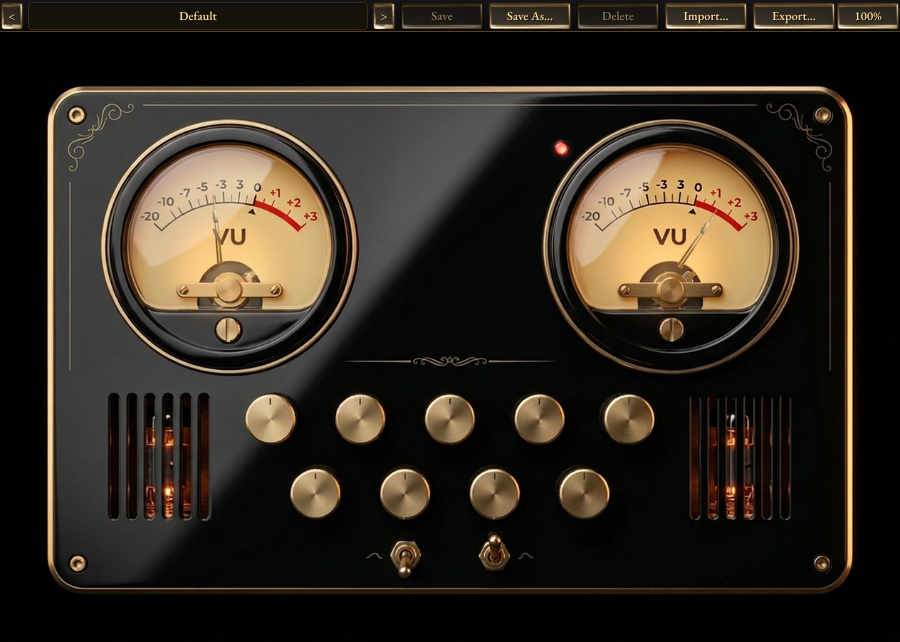
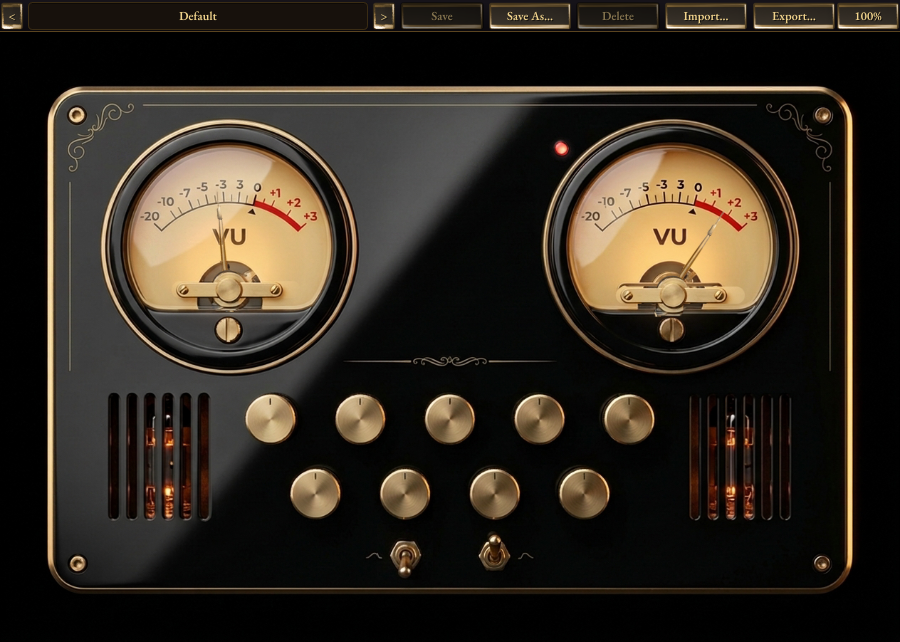
fix(gui): through-pivot needle rod + hub occluder (needle no longer disconnects from the pivot)
Yves rejection 2026-07-23: the v1 filmstrip froze the baked angle's
hub-occlusion boundary into every frame, so the rotated needle visually
detached from the joint. Master-03 shows the truth: one continuous rod
through the pivot with a counterweight tail on the far side, occluded
mid-span by the cap/bar/boss assembly.

- needle-filmstrip-v2.png: full through-pivot rod. Blade AND tail are
  master-diff-extracted (raw diff layer, rod capsule, alpha threshold,
  cap-glint exclusion, component filter); only the cap-hidden bridge
  (|U|<=22.5 master px) is filled with the rod's own cross-section
  profile. A fixed-row clip bakes the glass-band rim occlusion (the
  assembly sits behind the housing front). Same 96x480 manifest as v1.
- vu-hub-occluder-v1.png: master-05's own anchor-bar + cap + boss
  pixels (silhouette-masked, measured on the registered 540-frame),
  drawn by AnalogMeter above the needle frame - the rod passes behind
  the joint at every angle, exactly the master's layering.
- needle-fan pivot test retargeted to the new architecture: the rod now
  legitimately sweeps through the recess annulus (as the master bakes
  it); the static guarantee is the occluder cap disc (13px @user probe,
  measured 0% sweep energy; threshold 0.5%).
- docs/gui-preview.png regenerated; v1 strip files added to the
  handoff-cleanup git-rm list.

Pipeline: gui-pipeline analysis/needle_diff/rod_and_occluder.py +
compose_rod_proofs.py (side-by-side vs master-03 at the baked angle,
[…]

diff --git a/tests/gui/EditorSnapshotTests.cpp b/tests/gui/EditorSnapshotTests.cpp
@@ -1,8 +1,14 @@
 #include "PluginEditor.h"
+#include "PluginEditorLayout.h"
 #include "PluginProcessor.h"
 #include "gui/AnalogMeter.h"
 
 #include <catch2/catch_test_macros.hpp>
+
+#include <array>
+#include <cmath>
+#include <iostream>
+#include <vector>
 
 // GUI smoke tests for the master-05 baseline editor (src/PluginEditor.h,
 // src/gui/). juce::ScopedJuceInitialiser_GUI is installed once for the
@@ -147,4 +153,187 @@ TEST_CASE ("Editor snapshot at 100% is non-blank and is written for PR review", 
         stream->truncate();
         CHECK (pngFormat.writeImageToStream (snapshot, *stream));
     }
+}
+
+// Motion proof, from the REAL app render pipeline (not the offline
+// needle_diff analysis scripts): sweeps the Input Level meter's needle
+// through {-20,-7,-5,0,+2} dB, captures a real editor snapshot at each
+// position, crops to that meter's own component bounds, and checks that the
+// per-pixel range across the 5 crops (the "needle fan") stays essentially
+// zero inside a small disc around PluginEditorLayout.h's meterRPivotX/
+// YFraction - i.e. the needle's base doesn't wobble as it sweeps, which is
+// exactly the defect the 2026-07-23 per-meter pivot fix (see that file's
+// docs) was meant to close. writePngProof() below is a static-write helper
+// (no threads/timers), so this stays a synchronous, headless test like the
+// rest of this file.
+TEST_CASE ("Input meter needle fan pivots cleanly on its own true hub across a dB sweep", "[gui]")
+{
+    SilentiumAudioProcessor processor;
+    processor.prepareToPlay (48000.0, 512);
+
+    SilentiumAudioProcessorEditor editor (processor);
+    REQUIRE (editor.getWidth() > 0);
+    REQUIRE (editor.getHeight() > 0);
+
+    auto* input = findChildByTitle<basilica::gui::AnalogMeter> (editor, "Input Level meter");
+    REQUIRE (input != nullptr);
+
+    constexpr std::array<float, 5> sweepDb { -20.0f, -7.0f, -5.0f, 0.0f, 2.0f };
+
+    std::vector<juce::Image> crops;
+    crops.reserve (sweepDb.size());
+
+    for (const auto db : sweepDb)
+    {
+        input->setImmediateDbForPreview (db);
+
+        const auto snapshot = editor.createComponentSnapshot (editor.getLocalBounds(), true, 1.0f, juce::SoftwareImageType {});
+        REQUIRE (snapshot.isValid());
+
+        // input->getBounds() is this meter's own bounds within the editor -
+        // exactly the region the snapshot above was rendered into, so this
+        // crop lines up pixel-for-pixel with the component's own coordinate
+        // space (which is what PluginEditorLayout.h's meterRPivotXFraction/
+        // meterRPivotYFraction are expressed as fractions of).
+        crops.push_back (snapshot.getClippedImage (input->getBounds()));
+    }
+
+    REQUIRE (crops.size() == sweepDb.size());
+    for (const auto& crop : crops)
+    {
+        REQUIRE (crop.isValid());
+        REQUIRE (crop.getWidth() == crops.front().getWidth());
+        REQUIRE (crop.getHeight() == crops.front().getHeight());
+    }
+
+    const auto cropWidth = crops.front().getWidth();
+    const auto cropHeight = crops.front().getHeight();
+
+    // --- (a) build/needle-sweep.png: the 5 crops side by side ---
+    constexpr int gap = 10;
+    juce::Image sweepImage (juce::Image::RGB, (int) (cropWidth * (int) crops.size() + gap * ((int) crops.size() + 1)),
+                             cropHeight + gap * 2, true);
+    {
+        juce::Graphics g (sweepImage);
+        g.fillAll (juce::Colours::black);
+        for (size_t i = 0; i < crops.size(); ++i)
+            g.drawImageAt (crops[i], gap + (int) i * (cropWidth + gap), gap);
+    }
+
+    // --- (b) build/needle-pivot-overlay.png: per-pixel MAX-DIFFERENCE image
+    // across the 5 crops (the needle fan) - value at each pixel is the
+    // largest per-channel range (max - min across the 5 frames), summed over
+    // R/G/B, i.e. exactly zero wherever the pixel never changes across the
+    // whole sweep (the static face/bezel/hub) and large wherever the needle
+    // blade sweeps through. ---
+    juce::Image diffImage (juce::Image::RGB, cropWidth, cropHeight, true);
+
+    // PluginEditorLayout.h's per-meter pivot fraction for THIS (right/input)
+    // dial, expressed in this crop's own local pixel space (crop size ==
+    // meterComponentSize1x at the editor's default 100% scale step, see
+    // PluginEditor.cpp's resized()/scaleStepIndex docs).
+    const auto pivotXLocal = slnt::layout::meterRPivotXFraction * (float) slnt::layout::meterComponentSize1x;
+    const auto pivotYLocal = slnt::layout::meterRPivotYFraction * (float) slnt::layout::meterComponentSize1x;
+
+    // v0.3.7 (through-pivot rod + hub occluder): the rod now legitimately
+    // sweeps VISIBLY through the recess annulus around the hub (exactly as
+    // master-03 bakes it), so the old "everything near the hub is static"
+    // radius (29.2px, the shadow-disc ring) no longer holds. What IS
+    // guaranteed static now is the hub-OCCLUDER cap disc that
+    // AnalogMeter::paint() draws on top of the needle frame: 21 master px
+    // (AnalogMeter.cpp's occluder geometry) * plateWidth1x/
+    // masterCanvasWidthPx (900/1264) ~= 14.95px @1x - probed at 13px to
+    // stay safely inside the occluder's own ~1.3px alpha feather + edge AA.
+    constexpr float hubCapRadius1x = 13.0f;
+
+    double totalDiffEnergy = 0.0;
+    double diskDiffEnergy = 0.0;
+
+    {
+        juce::Image::BitmapData diffWrite (diffImage, juce::Image::BitmapData::writeOnly);
+
+        for (int y = 0; y < cropHeight; ++y)
+        {
+            for (int x = 0; x < cropWidth; ++x)
+            {
+                float minR = 255.0f, maxR = 0.0f;
+                float minG = 255.0f, maxG = 0.0f;
+                float minB = 255.0f, maxB = 0.0f;
+
+                for (const auto& crop : crops)
+                {
+                    const auto c = crop.getPixelAt (x, y);
+                    minR = juce::jmin (minR, (float) c.getRed());
+                    maxR = juce::jmax (maxR, (float) c.getRed());
+                    minG = juce::jmin (minG, (float) c.getGreen());
+                    maxG = juce::jmax (maxG, (float) c.getGreen());
+                    minB = juce::jmin (minB, (float) c.getBlue());
+                    maxB = juce::jmax (maxB, (float) c.getBlue());
+                }
+
+                const float diff = (maxR - minR) + (maxG - minG) + (maxB - minB); // 0..765
+                const auto vis = (juce::uint8) juce::jlimit (0, 255, (int) std::lround (diff));
+                diffWrite.setPixelColour (x, y, juce::Colour::fromRGB (vis, vis, vis));
+
+                totalDiffEnergy += (double) diff;
+
+                const auto dx = (float) x - pivotXLocal;
+                const auto dy = (float) y - pivotYLocal;
+                if (dx * dx + dy * dy <= hubCapRadius1x * hubCapRadius1x)
+                    diskDiffEnergy += (double) diff;
+            }
+        }
+    }
+
+    const auto diskEnergyFraction = totalDiffEnergy > 0.0 ? diskDiffEnergy / totalDiffEnergy : 0.0;
+
+    std::cout << "[needle-fan] hub-disc pivot @ (" << pivotXLocal << ", " << pivotYLocal << ") r=" << hubCapRadius1x
+               << "px; disk/total diff energy = " << diskDiffEnergy << "/" << totalDiffEnergy << " = "
+               << (diskEnergyFraction * 100.0) << "%\n";
+
+    INFO ("hub-disc pivot @ (" << pivotXLocal << ", " << pivotYLocal << ") r=" << hubCapRadius1x
+                                << "; disk/total diff energy = " << diskDiffEnergy << "/" << totalDiffEnergy
+                                << " = " << (diskEnergyFraction * 100.0) << "%");
+
+    // v0.3.7: inside the hub-occluder cap disc the pixels are the OCCLUDER's
+    // (drawn after the needle frame), so the sweep difference there must be
+    // essentially zero - this guards the occluder's presence AND placement:
+    // a missing or misplaced occluder would let the rod's bridge span sweep
+    // visibly right at the pivot (the "disconnected needle" defect family
+    // this whole revision closes), and a mispositioned pivot would smear
+    // difference energy into the disc the same way. The only non-zero
+    // residue inside the probe disc is edge AA where the disc's boundary
+    // pixels graze the occluder feather.
+    //
+    // Threshold calibration (measured locally, this revision): correct
+    // occluder = exactly 0% (the opaque occluder core fully covers the
+    // 13px probe disc). 0.5% keeps a wide CI-stable margin for renderer
+    // AA differences while still failing hard on a missing/misplaced
+    // occluder or pivot regression.
+    CHECK (totalDiffEnergy > 0.0); // sanity: the needle actually moved
+    CHECK (diskEnergyFraction < 0.005);
+
+    juce::PNGImageFormat pngFormat;
+
+    const auto writePng = [&pngFormat] (const juce::Image& image, const char* filename)
+    {
+        const auto outFile = juce::File::getCurrentWorkingDirectory().getChildFile (filename);
+        if (auto stream = std::unique_ptr<juce::FileOutputStream> (outFile.createOutputStream()))
+        {
+            stream->setPosition (0);
+            stream->truncate();
+            CHECK (pngFormat.writeImageToStream (image, *stream));
+        }
+        else
+        {
+            FAIL ("could not open output stream for " << filename);
+        }
+    };
+
+    // Written for local/PR review, same convention as gui-preview.png above
+    // - paths are relative to the test binary's cwd, which `ctest
+    // --test-dir build` sets to the build directory (build/needle-sweep.png,
+    // build/needle-pivot-overlay.png).
+    writePng (sweepImage, "needle-sweep.png");
+    writePng (diffImage, "needle-pivot-overlay.png");
 }

diff --git a/src/gui/AnalogMeter.cpp b/src/gui/AnalogMeter.cpp
@@ -30,16 +30,24 @@ namespace
         Tick { 1.0f, 25.47f }, Tick { 2.0f, 32.92f }, Tick { 3.0f, 40.39f }
     };
 
-    // Needle FILMSTRIP manifest (v0.3.5) - copied verbatim from
-    // resources/gui/needle-filmstrip-v1.json's provenance record, hardcoded
-    // here per Yves' brief rather than parsed from that .json at runtime
-    // (paint()'s frame-index lookup below is real-time-safe and must not
-    // touch the filesystem). A vertical stack of needleFrameCount already-
+    // Needle FILMSTRIP manifest (v0.3.5, asset revised v0.3.7) - copied
+    // verbatim from resources/gui/needle-filmstrip-v2.json's provenance
+    // record, hardcoded here per Yves' brief rather than parsed from that
+    // .json at runtime (paint()'s frame-index lookup below must not touch
+    // the filesystem). A vertical stack of needleFrameCount already-
     // rotated needleFrameW x needleFrameH frames, ascending angle order,
     // each frame's own pivot at its exact centre (0.5, 0.5) - so drawing a
     // frame into a square destination box centred on this component's
     // pivot reproduces the old single-image AffineTransform rotation
     // exactly, without any live rotation.
+    //
+    // v0.3.7: the frames now carry the FULL through-pivot rod (blade +
+    // counterweight tail, master-diff-extracted) - the v1 strip's blade
+    // ended at the baked angle's frozen hub-occlusion boundary, so the
+    // rotated needle visually disconnected from the pivot (Yves rejection
+    // 2026-07-23). The matching hub OCCLUDER (assets.hubOccluder, drawn
+    // after the needle below) restores the master's own layering: rod in
+    // front of the recess, behind the cap/bar/boss assembly.
     constexpr int needleFrameCount = 96;
     constexpr int needleFrameW = 480;
     constexpr int needleFrameH = 480;
@@ -49,6 +57,22 @@ namespace
     [[maybe_unused]] constexpr int needleRestFrameIndex = 40; // the filmstrip's own "straight up" pose - not consulted at runtime (frame index is always derived from the live angle), kept for provenance
     constexpr float needleHubXFraction = 0.5f;
     constexpr float needleHubYFraction = 0.5f;
+
+    // A needle frame's 480px square corresponds to this many master-render
+    // pixels on screen (needleSizeFraction * meterComponentSize1x *
+    // masterCanvasWidthPx / plateWidth1x = 0.84 * 255 * 1264 / 900) - the
+    // conversion the hub-occluder placement below shares with the
+    // gui-pipeline build scripts' scale chain.
+    constexpr float needleDrawSizeMasterPx = 300.832f;
+
+    // Hub-occluder placement (v0.3.7) - copied verbatim from
+    // resources/gui/vu-hub-occluder-v1.json's provenance record (pivot-
+    // relative bbox of master-05's bar + cap + boss silhouette, in master
+    // px; extraction: gui-pipeline analysis/needle_diff/rod_and_occluder.py).
+    constexpr float occluderWidthMasterPx = 183.0f;
+    constexpr float occluderHeightMasterPx = 58.0f;
+    constexpr float occluderLeftRelPivotMasterPx = -79.42336f;
+    constexpr float occluderTopRelPivotMasterPx = -23.20854f;
 
     static_assert (needleRestFrameIndex >= 0 && needleRestFrameIndex < needleFrameCount);
 }
@@ -247,6 +271,22 @@ namespace basilica::gui
             g.drawImage (assets.needle,
                         destX, destY, destSize, destSize,
                         0, frameIndex * needleFrameH, needleFrameW, needleFrameH);
+
+            // 4. Hub occluder (v0.3.7) - master-05's own bar + cap + boss
+            // pixels redrawn ON TOP of the needle frame, so the rod passes
+            // visually BEHIND the joint at every angle (the master's own
+            // layering; the blade stays in front of the recess, the tail
+            // emerges below the bar). Placement maps the pivot-relative
+            // master-px bbox through the same scale the needle frame uses.
+            if (assets.hubOccluder.isValid())
+            {
+                const auto s = needleDrawSize / needleDrawSizeMasterPx;
+                g.drawImage (assets.hubOccluder,
+                             juce::Rectangle<float> (pivotX + occluderLeftRelPivotMasterPx * s,
+                                                     pivotY + occluderTopRelPivotMasterPx * s,
+                                                     occluderWidthMasterPx * s,
+                                                     occluderHeightMasterPx * s));
+            }
         }
     }
 

diff --git a/src/gui/AnalogMeter.h b/src/gui/AnalogMeter.h
@@ -47,7 +47,17 @@ namespace basilica::gui
             // and paint()'s frame-index lookup. Kept named "needle" (not
             // renamed to e.g. needleStrip) to minimise churn at this call
             // site's one caller (PluginEditor.cpp's makeMeterAssets()).
+            // v0.3.7: the frames carry the full through-pivot rod (blade +
+            // counterweight tail) - see the manifest docs in the .cpp.
             juce::Image needle;
+
+            // v0.3.7: master-05's bar + cap-disc + boss-cylinder pixels,
+            // alpha-masked to that assembly's silhouette
+            // (vu-hub-occluder-v1.png) and drawn ON TOP of the needle
+            // frame by paint(), so the rod passes visually BEHIND the
+            // joint at every angle. May be left invalid (skips the draw -
+            // the rod then sits fully in front, the pre-v0.3.7 look).
+            juce::Image hubOccluder;
 
             // v0.3.6: the peak-LED IMAGE is no longer owned/drawn here - per
             // Yves' master-03 reference, the LED sits on the PLATE outside

diff --git a/src/PluginEditor.cpp b/src/PluginEditor.cpp
@@ -112,7 +112,8 @@ namespace
     basilica::gui::AnalogMeter::Assets makeMeterAssets()
     {
         basilica::gui::AnalogMeter::Assets assets;
-        assets.needle = loadImage (BinaryData::needlefilmstripv1_png, BinaryData::needlefilmstripv1_pngSize);
+        assets.needle = loadImage (BinaryData::needlefilmstripv2_png, BinaryData::needlefilmstripv2_pngSize);
+        assets.hubOccluder = loadImage (BinaryData::vuhuboccluderv1_png, BinaryData::vuhuboccluderv1_pngSize);
         return assets;
     }
 
@@ -153,8 +154,8 @@ SilentiumAudioProcessorEditor::SilentiumAudioProcessorEditor (SilentiumAudioProc
     : juce::AudioProcessorEditor (&processorToEdit),
       audioProcessor (processorToEdit),
       presetBar (initLocalisationThenGetPresetManager (processorToEdit)),
-      gainReductionMeter (makeMeterAssets(), "Gain Reduction meter", 0.0f, meterPivotXFraction, meterPivotYFraction),
-      inputLevelMeter (makeMeterAssets(), "Input Level meter", 1.0f, meterPivotXFraction, meterPivotYFraction)
+      gainReductionMeter (makeMeterAssets(), "Gain Reduction meter", 0.0f, meterLPivotXFraction, meterLPivotYFraction),
+      inputLevelMeter (makeMeterAssets(), "Input Level meter", 1.0f, meterRPivotXFraction, meterRPivotYFraction)
 {
     setLookAndFeel (&lookAndFeel);
 

diff --git a/docs/handoff-cleanup.md b/docs/handoff-cleanup.md
@@ -17,6 +17,8 @@ single master, v0.3.3's true-component-assembly `*-v4.png` family) and are
 now fully dead weight:
 
 ```
+resources/gui/needle-filmstrip-v1.png
+resources/gui/needle-filmstrip-v1.json
 resources/gui/faceplate-silentium-v4-base.png
 resources/gui/reflection-v4.png
 resources/gui/tube-glow-v4.png
@@ -82,7 +84,8 @@ independent of the Filmstrip*/RotatingImageKnob cleanup.
 ## One-liner for Yves
 
 ```sh
-git rm resources/gui/faceplate-silentium-v4-base.png resources/gui/reflection-v4.png \
+git rm resources/gui/needle-filmstrip-v1.png resources/gui/needle-filmstrip-v1.json \
+  resources/gui/faceplate-silentium-v4-base.png resources/gui/reflection-v4.png \
   resources/gui/tube-glow-v4.png resources/gui/rose-emblem-v4.png resources/gui/vu-face-v4.png \
   resources/gui/knob-v4.png resources/gui/screw-v4.png resources/gui/faceplate-silentium-v3.png \
   resources/gui/faceplate_silentium_v2_1800x1200.png resources/gui/faceplate_silentium_v2_900x600.png \